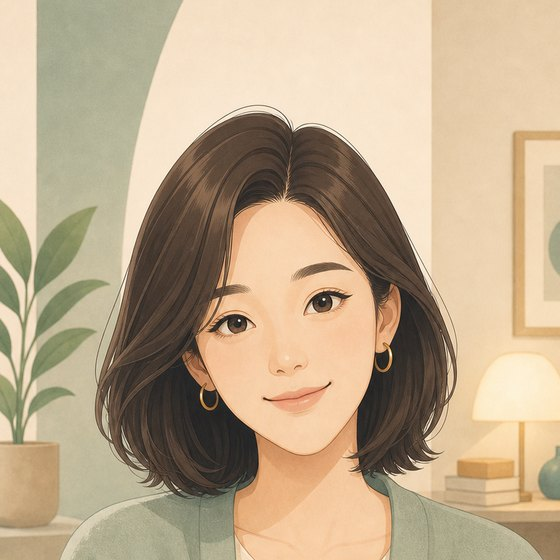
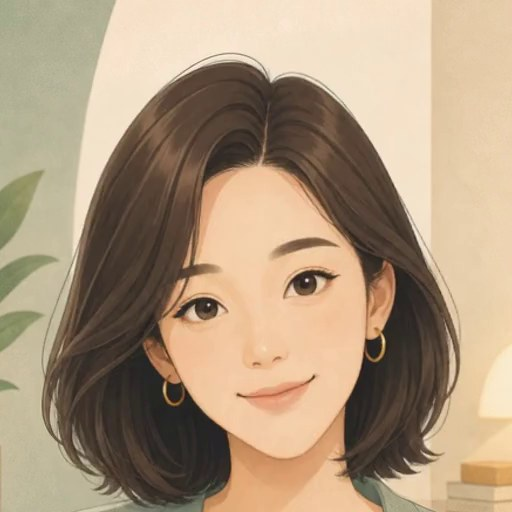
polish(app-site): 標題一行不折、標註置中改「擬真/插畫少女風格」拿掉AI示範字、兩支影片重裁對齊眼線

diff --git a/app-site/index.html b/app-site/index.html
@@ -351,6 +351,8 @@
 <style>
   #livedemo{padding:76px 0;background:var(--mint)}
   #livedemo .sec-head{margin-bottom:38px}
+  #livedemo h2{font-size:clamp(20px,2.8vw,30px);white-space:nowrap;line-height:1.3}
+  @media(max-width:760px){#livedemo h2{white-space:normal;font-size:22px}}
   .vgrid{display:grid;grid-template-columns:repeat(2,1fr);gap:26px;max-width:720px;margin:0 auto}
   .vdemo{margin:0}
   .vframe{position:relative;aspect-ratio:1/1;border-radius:22px;overflow:hidden;background:var(--cream-2);border:1px solid var(--line)}
@@ -361,7 +363,7 @@
   .vsound.on{background:var(--ink)}
   .vsound.on .ic-on{display:none}
   .vsound.on .ic-off{display:inline}
-  .vcap{display:flex;align-items:baseline;justify-content:space-between;gap:10px;margin-top:14px;padding:0 4px}
+  .vcap{display:flex;align-items:baseline;justify-content:center;gap:10px;margin-top:14px;padding:0 4px}
   .vcap .vlab{font-weight:700;color:var(--ink);font-size:16px}
   .vcap .vhint{font-size:12.5px;color:var(--muted)}
   @media(max-width:640px){.vgrid{grid-template-columns:1fr;max-width:340px}}
@@ -379,14 +381,14 @@
           <video class="vplay" poster="assets/real-female-poster.jpg" muted playsinline autoplay loop preload="auto" aria-label="沐寧 AI 視訊示範・自然女聲"><source src="assets/realfemale-talk-demo.mp4" type="video/mp4"></video>
           <button class="vsound" type="button" aria-label="開啟聲音" aria-pressed="false"><svg class="ic-on" viewBox="0 0 24 24"><path d="M11 5L6 9H3v6h3l5 4V5z"/><path d="M15.5 8.5a5 5 0 010 7M18.8 5.5a9 9 0 010 13"/></svg><svg class="ic-off" viewBox="0 0 24 24"><path d="M11 5L6 9H3v6h3l5 4V5z"/><path d="M17 9.5l5 5M22 9.5l-5 5"/></svg><span class="vs-tx" data-en="Sound on">開聲音</span></button>
         </div>
-        <figcaption class="vcap"><span class="vlab" data-en="In a lifelike style">真人風的她</span><span class="vhint" data-en="AI-generated demo">AI 生成・示範</span></figcaption>
+        <figcaption class="vcap"><span class="vlab" data-en="Photorealistic style">擬真少女風格</span></figcaption>
       </figure>
       <figure class="vdemo">
         <div class="vframe">
           <video class="vplay" poster="assets/illust-female-poster.jpg" muted playsinline autoplay loop preload="auto" aria-label="沐寧 AI 視訊示範・插畫風女聲"><source src="assets/illustfemale-talk-demo.mp4" type="video/mp4"></video>
           <button class="vsound" type="button" aria-label="開啟聲音" aria-pressed="false"><svg class="ic-on" viewBox="0 0 24 24"><path d="M11 5L6 9H3v6h3l5 4V5z"/><path d="M15.5 8.5a5 5 0 010 7M18.8 5.5a9 9 0 010 13"/></svg><svg class="ic-off" viewBox="0 0 24 24"><path d="M11 5L6 9H3v6h3l5 4V5z"/><path d="M17 9.5l5 5M22 9.5l-5 5"/></svg><span class="vs-tx" data-en="Sound on">開聲音</span></button>
         </div>
-        <figcaption class="vcap"><span class="vlab" data-en="In an illustrated style">插畫風的她</span><span class="vhint" data-en="AI-generated demo">AI 生成・示範</span></figcaption>
+        <figcaption class="vcap"><span class="vlab" data-en="Illustrated style">插畫少女風格</span></figcaption>
       </figure>
     </div>
   </div>